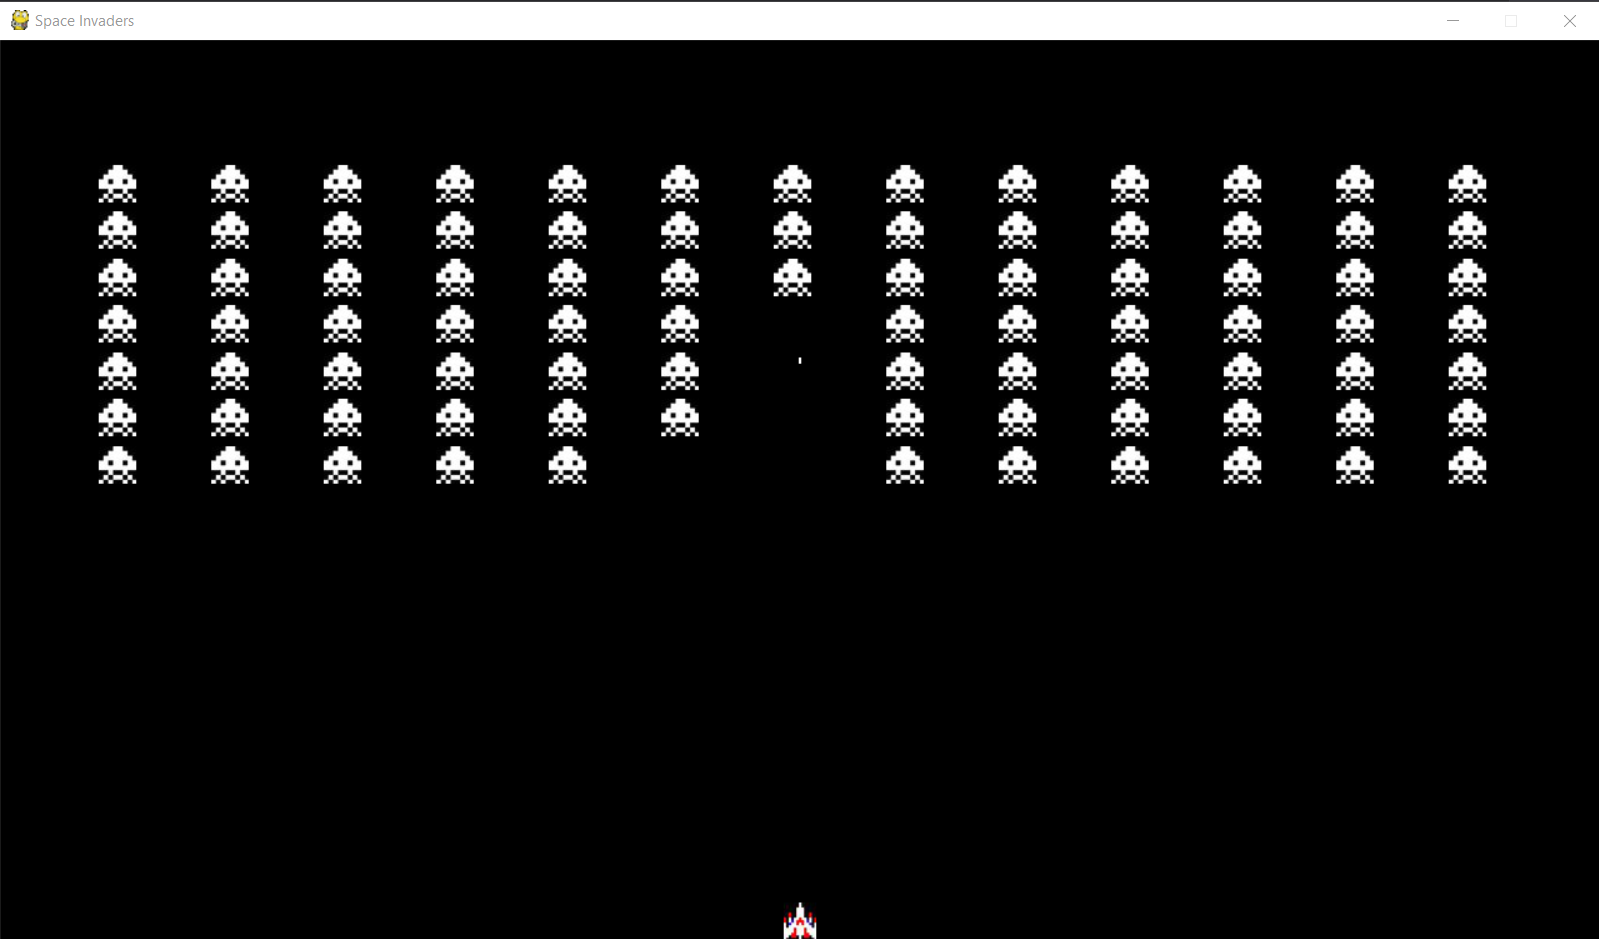
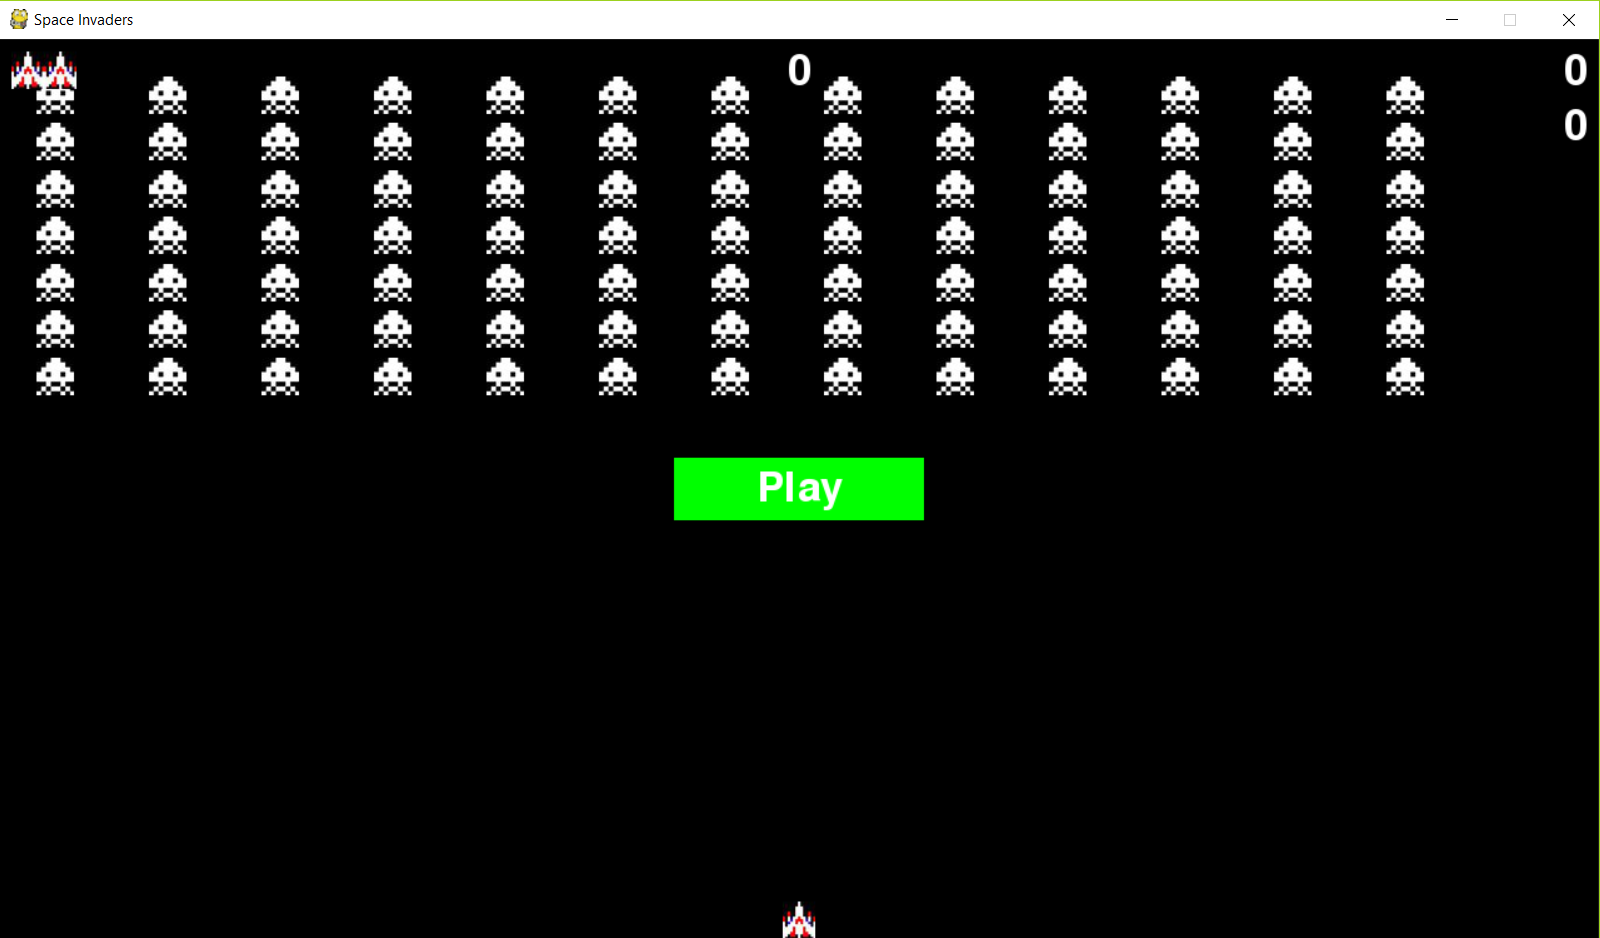
mvp

Changed region(s): [[0.0, 0.0, 0.95, 0.5565], [0.9806, 0.0, 1.0, 0.1546], [0.4903, 0.9584, 0.521, 1.0]]

diff --git a/SpaceInvaders/functions.py b/SpaceInvaders/functions.py
@@ -28,6 +28,7 @@ def check_events(settings, screen, player_render, bullets, play_button, stats, a
 
 def check_play_button(stats, play_button, mouse_x, mouse_y, settings, screen, aliens, bullets, ship, scoreboard):
   if play_button.rect.collidepoint(mouse_x, mouse_y) and not stats.game_active:
+    settings.space_increase = 0
     settings.init_dyn_settings()
     stats.reset_stats()
     alien_fleet(settings, screen, aliens)
@@ -71,6 +72,7 @@ def update_bullets(aliens, bullets, screen, settings, scoreboard, stats):
     check_high_score(stats, scoreboard)
 
   if len(aliens) == 0:
+    settings.space_increase += .15
     bullets.empty()
     settings.increase_difficulty()
     stats.level += 1
@@ -81,15 +83,15 @@ def update_bullets(aliens, bullets, screen, settings, scoreboard, stats):
 def alien_fleet(settings, screen, aliens):
   alien_init = alien.Alien(settings, screen)
   space_x = settings.width - 3 * alien_init.rect.width
-  space_y = settings.height - 3 * alien_init.rect.height
+  space_y = settings.height - (3+settings.space_increase) * alien_init.rect.height
   alien_number = int(space_x / (3*alien_init.rect.width))
-  alien_rows = int(space_y/(3*alien_init.rect.height))
+  alien_rows = int(space_y/((3+settings.space_increase)*alien_init.rect.height))
   
   for row in range(alien_rows):
     for alien_count in range(alien_number):
       alien_init = alien.Alien(settings, screen)
       alien_init.x = alien_init.rect.width + 3 * alien_init.rect.width * alien_count
-      alien_init.y = alien_init.rect.height + 1.25 * alien_init.rect.height * row
+      alien_init.y = alien_init.rect.height + (1.25+settings.space_increase) * alien_init.rect.height * row
       alien_init.rect.x =  alien_init.x
       alien_init.rect.y = alien_init.y
       aliens.add(alien_init)

diff --git a/SpaceInvaders/settings.py b/SpaceInvaders/settings.py
@@ -17,10 +17,12 @@ class Settings():
 
     self.ship_limit = 2
 
-    self.speedup = 1.15
+    self.speedup = 1.1
     self.init_dyn_settings()
 
     self.increase_score = 10
+
+    self.space_increase = 0
 
   def init_dyn_settings(self):
     self.ship_speed = .8
@@ -31,5 +33,6 @@ class Settings():
 
   def increase_difficulty(self):
     self.alien_speed *= self.speedup
+    self.ship_speed += .15
+    self.bullet_speed += .15
     self.points += self.increase_score
-    print(self.points)

diff --git a/README.md b/README.md
@@ -2,9 +2,13 @@
 
 ## Introduction
 
-##### Classic Space Invader Game
-
 Learning project w/ tutorial from 'Python Crash Course'
+
+Destroy as many waves of alien invaders as you can. 
+
+The more waves you destroy, the faster they'll come at you.
+
+##### Classic Space Invader Game
 
 Built in Visual Studio 2017 w/ tutorial
 
@@ -15,4 +19,7 @@ Standalone project: Cloned the repo and run in Visual Studios. If using another 
 ## Output
 
 ![Console](SpaceInvaders/assets/Capture.PNG)
+
+![Console2](SpaceInvaders/assets/Capture2.PNG)
+
 
